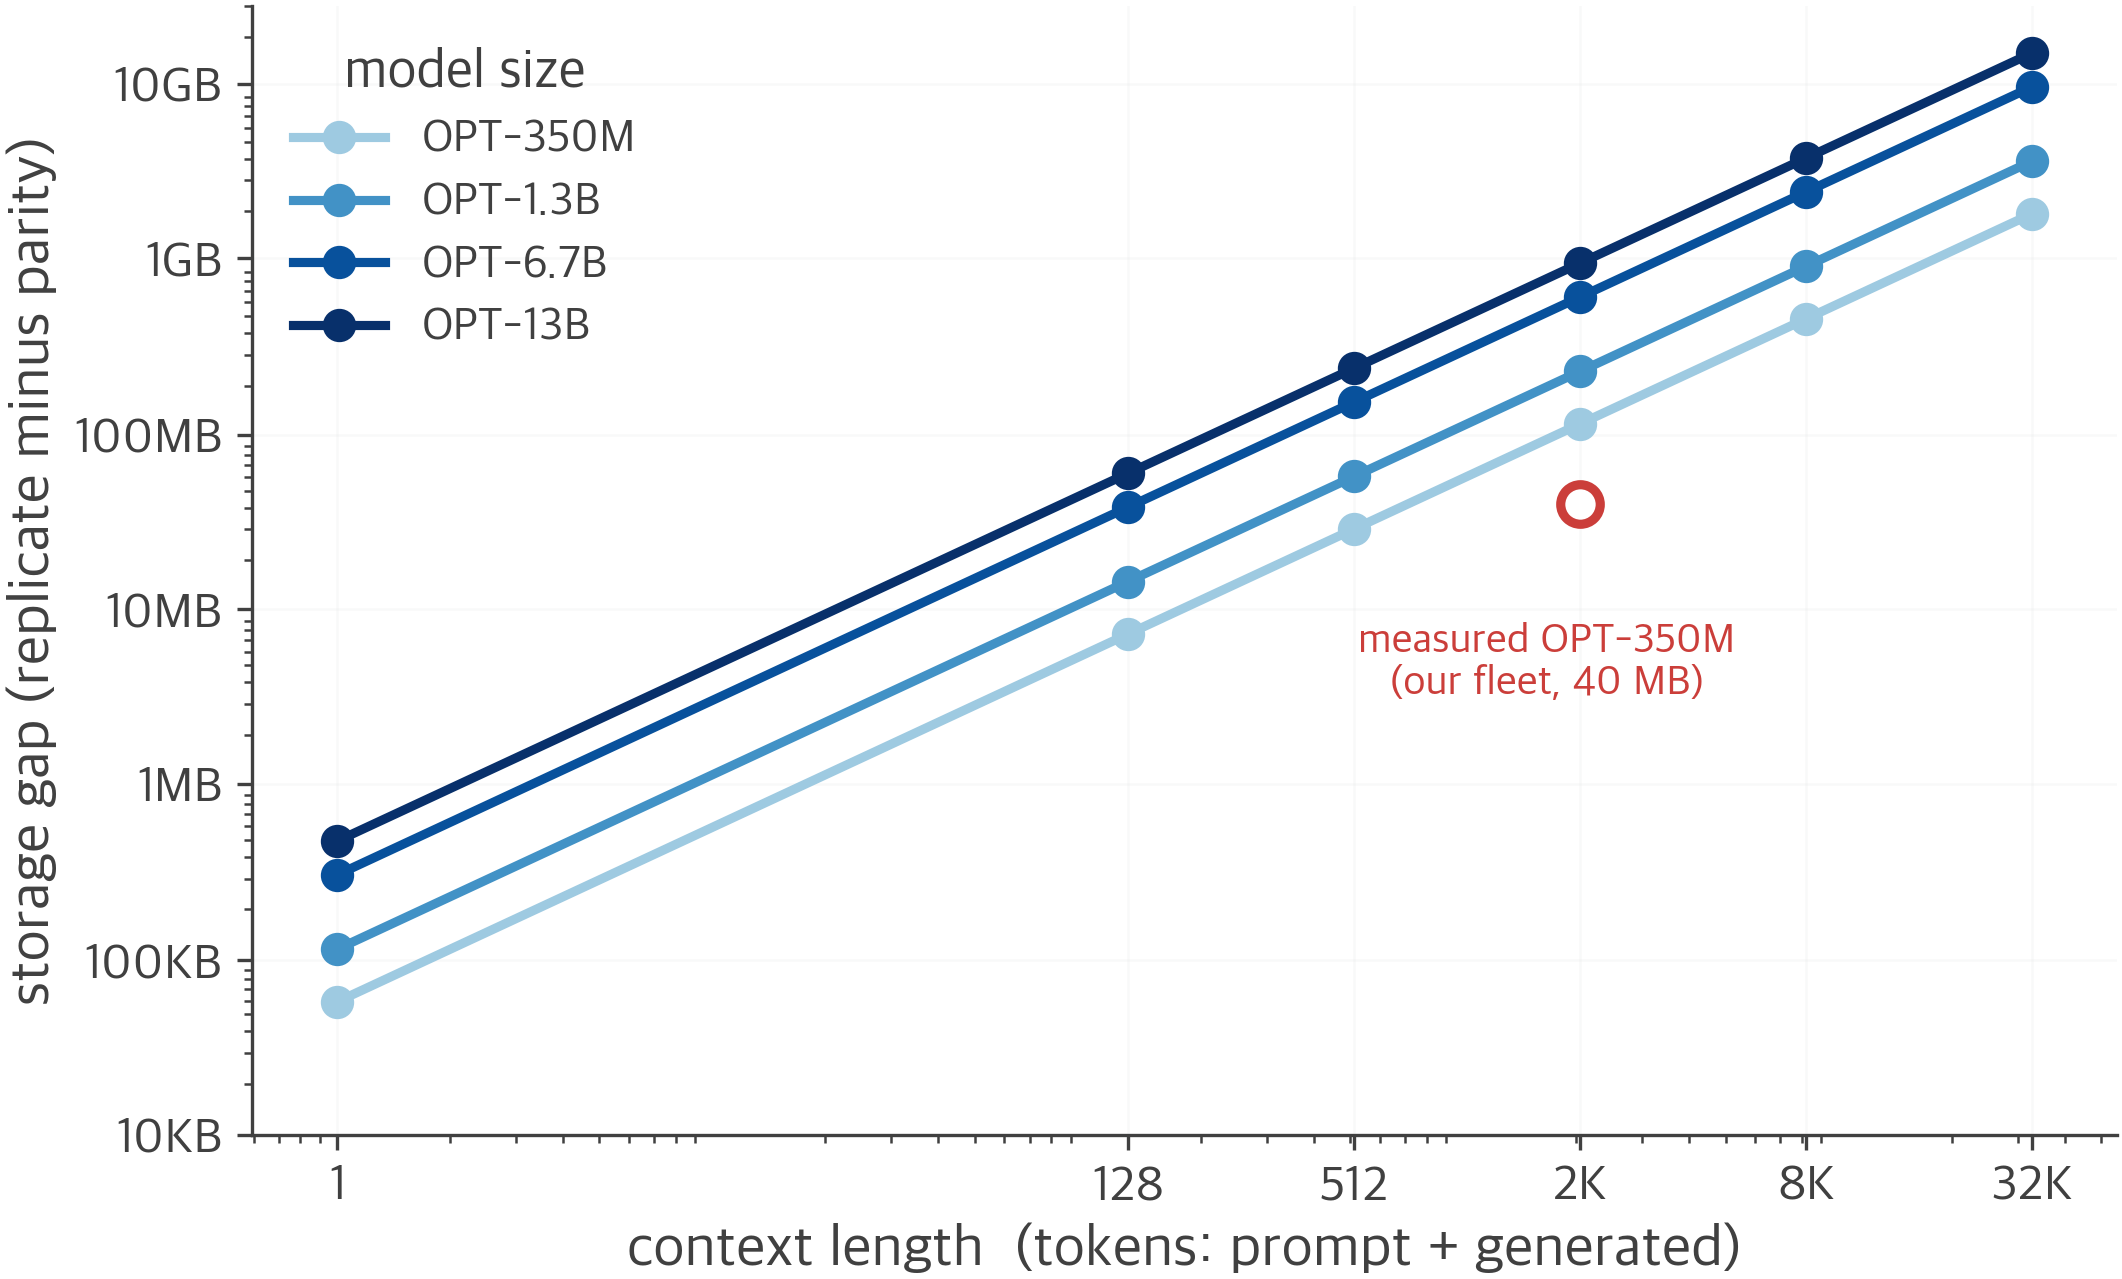
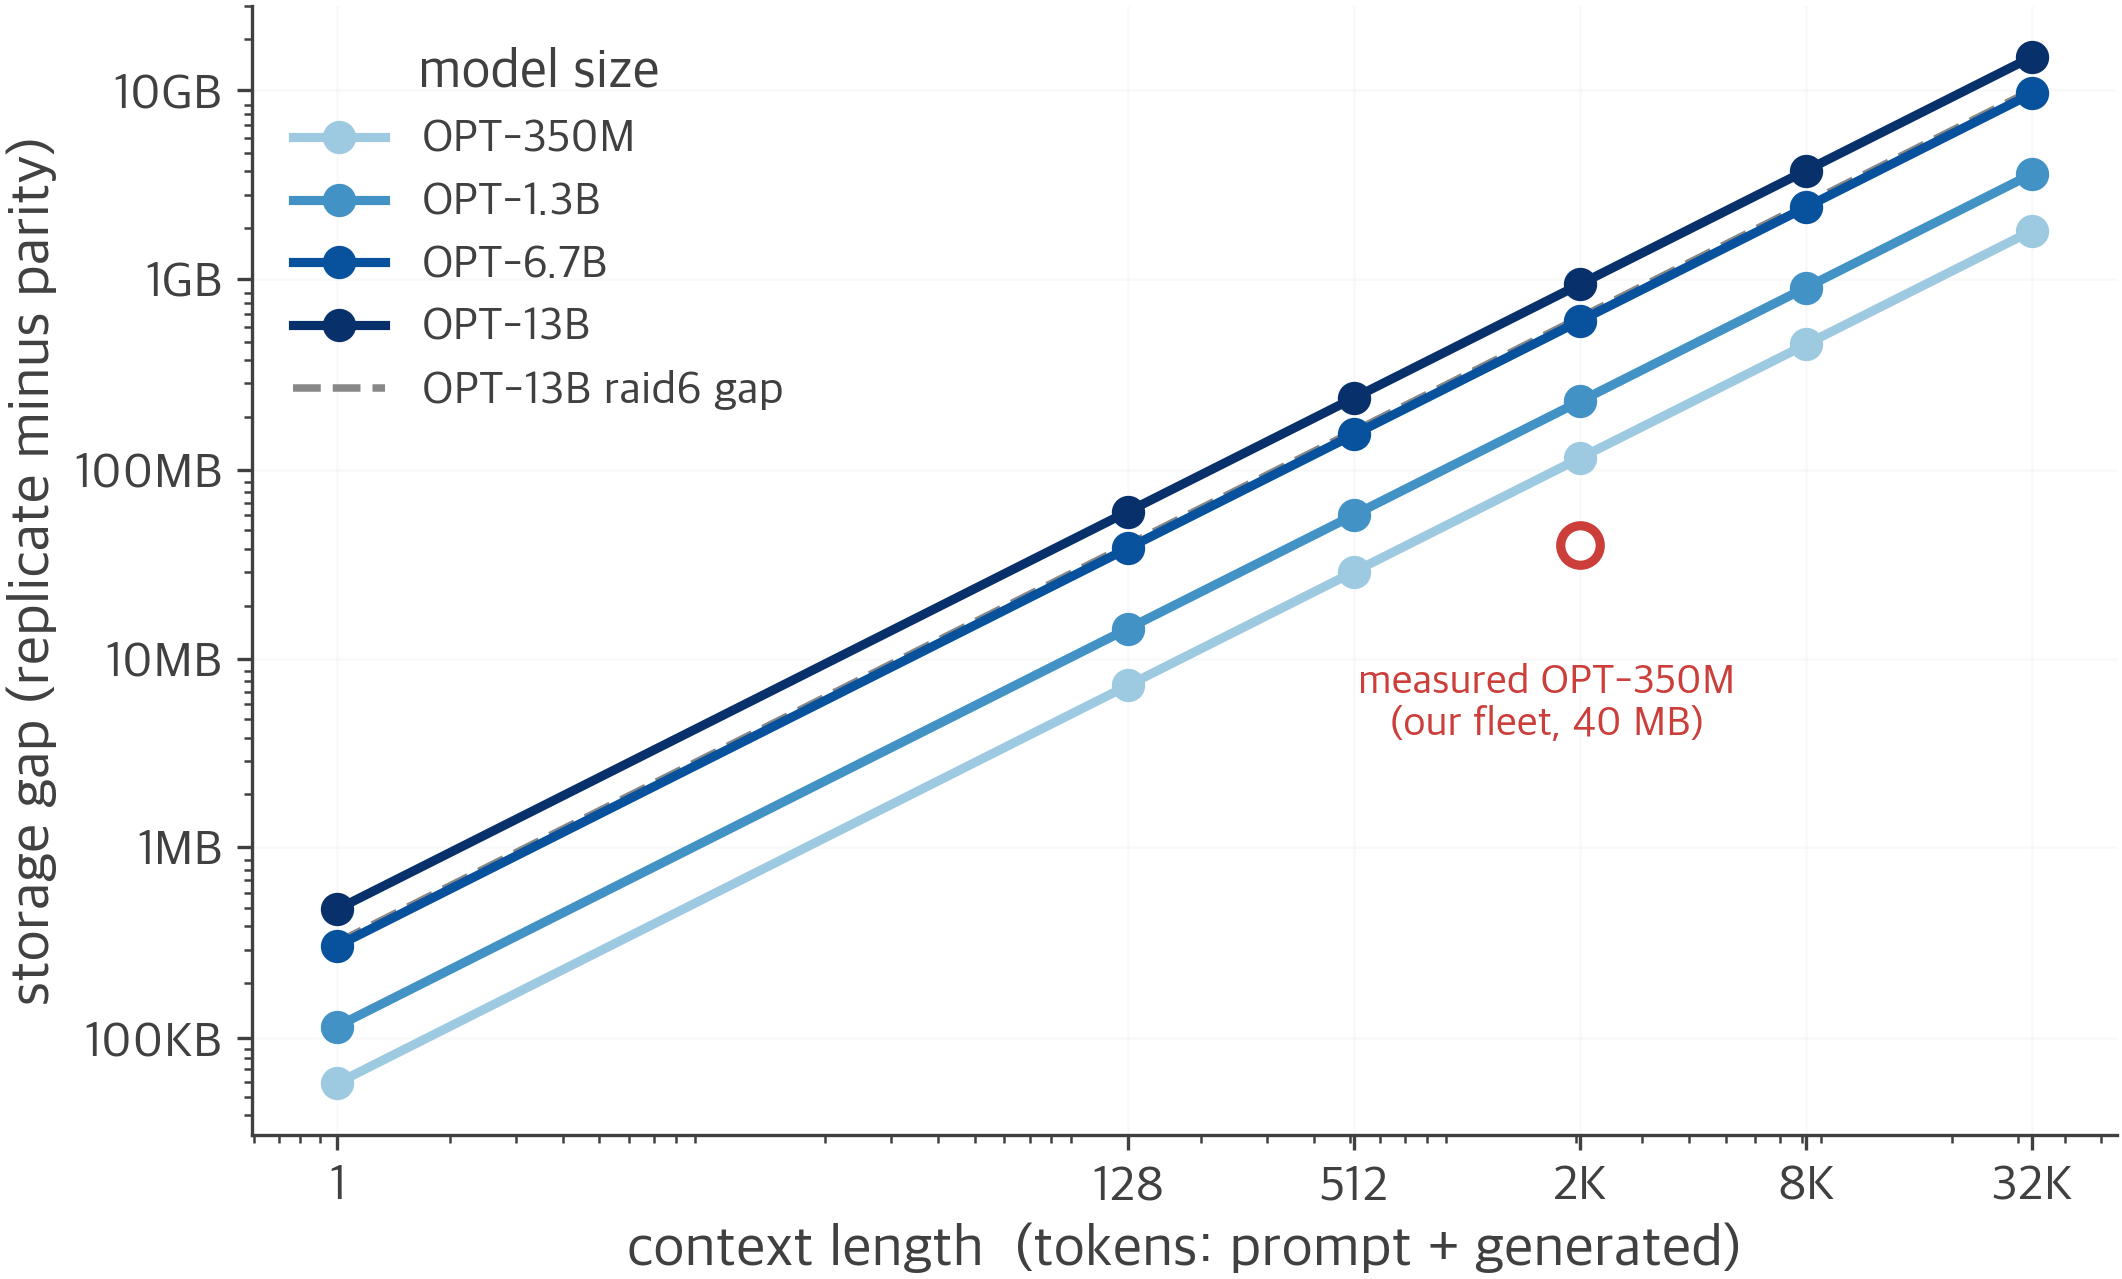
feat(raid6): storage-scaling figure raid6 gap line
Claude-Session: https://claude.ai/code/session_01FfKQPAstkv5E1GtvR5op9j

diff --git a/paper/figures/make_storage_scaling_models.py b/paper/figures/make_storage_scaling_models.py
@@ -52,6 +52,15 @@ ax.grid(True, which="major", alpha=0.25)
 ax.set_axisbelow(True)
 ax.spines["top"].set_visible(False)
 ax.spines["right"].set_visible(False)
+
+# raid6 keeps 2/N vs replicate (N-1)/N -> gap (N-3)/N (dashed, model-agnostic ref
+# using the largest plotted model so it sits in range).
+RAID6_GAP_FRAC = (N - 3) / N   # replicate - raid6, balanced N=5 -> 2/5
+Lb, kvhb, hdb = MODELS[PLOT[-1]]
+full_tok_b = Lb * per_layer_token_bytes(kvhb, hdb)
+ax.plot(CTX, full_tok_b * RAID6_GAP_FRAC * CTX, linestyle="--", color="#888888",
+        linewidth=1.8, label=f"{PLOT[-1]} raid6 gap", zorder=2)
+
 ax.legend(loc="upper left", fontsize=11, frameon=False, title="model size")
 fig.subplots_adjust(left=0.13, right=0.97, top=0.96, bottom=0.14)
 save_slide(fig, "fig_storage_scaling_models")
